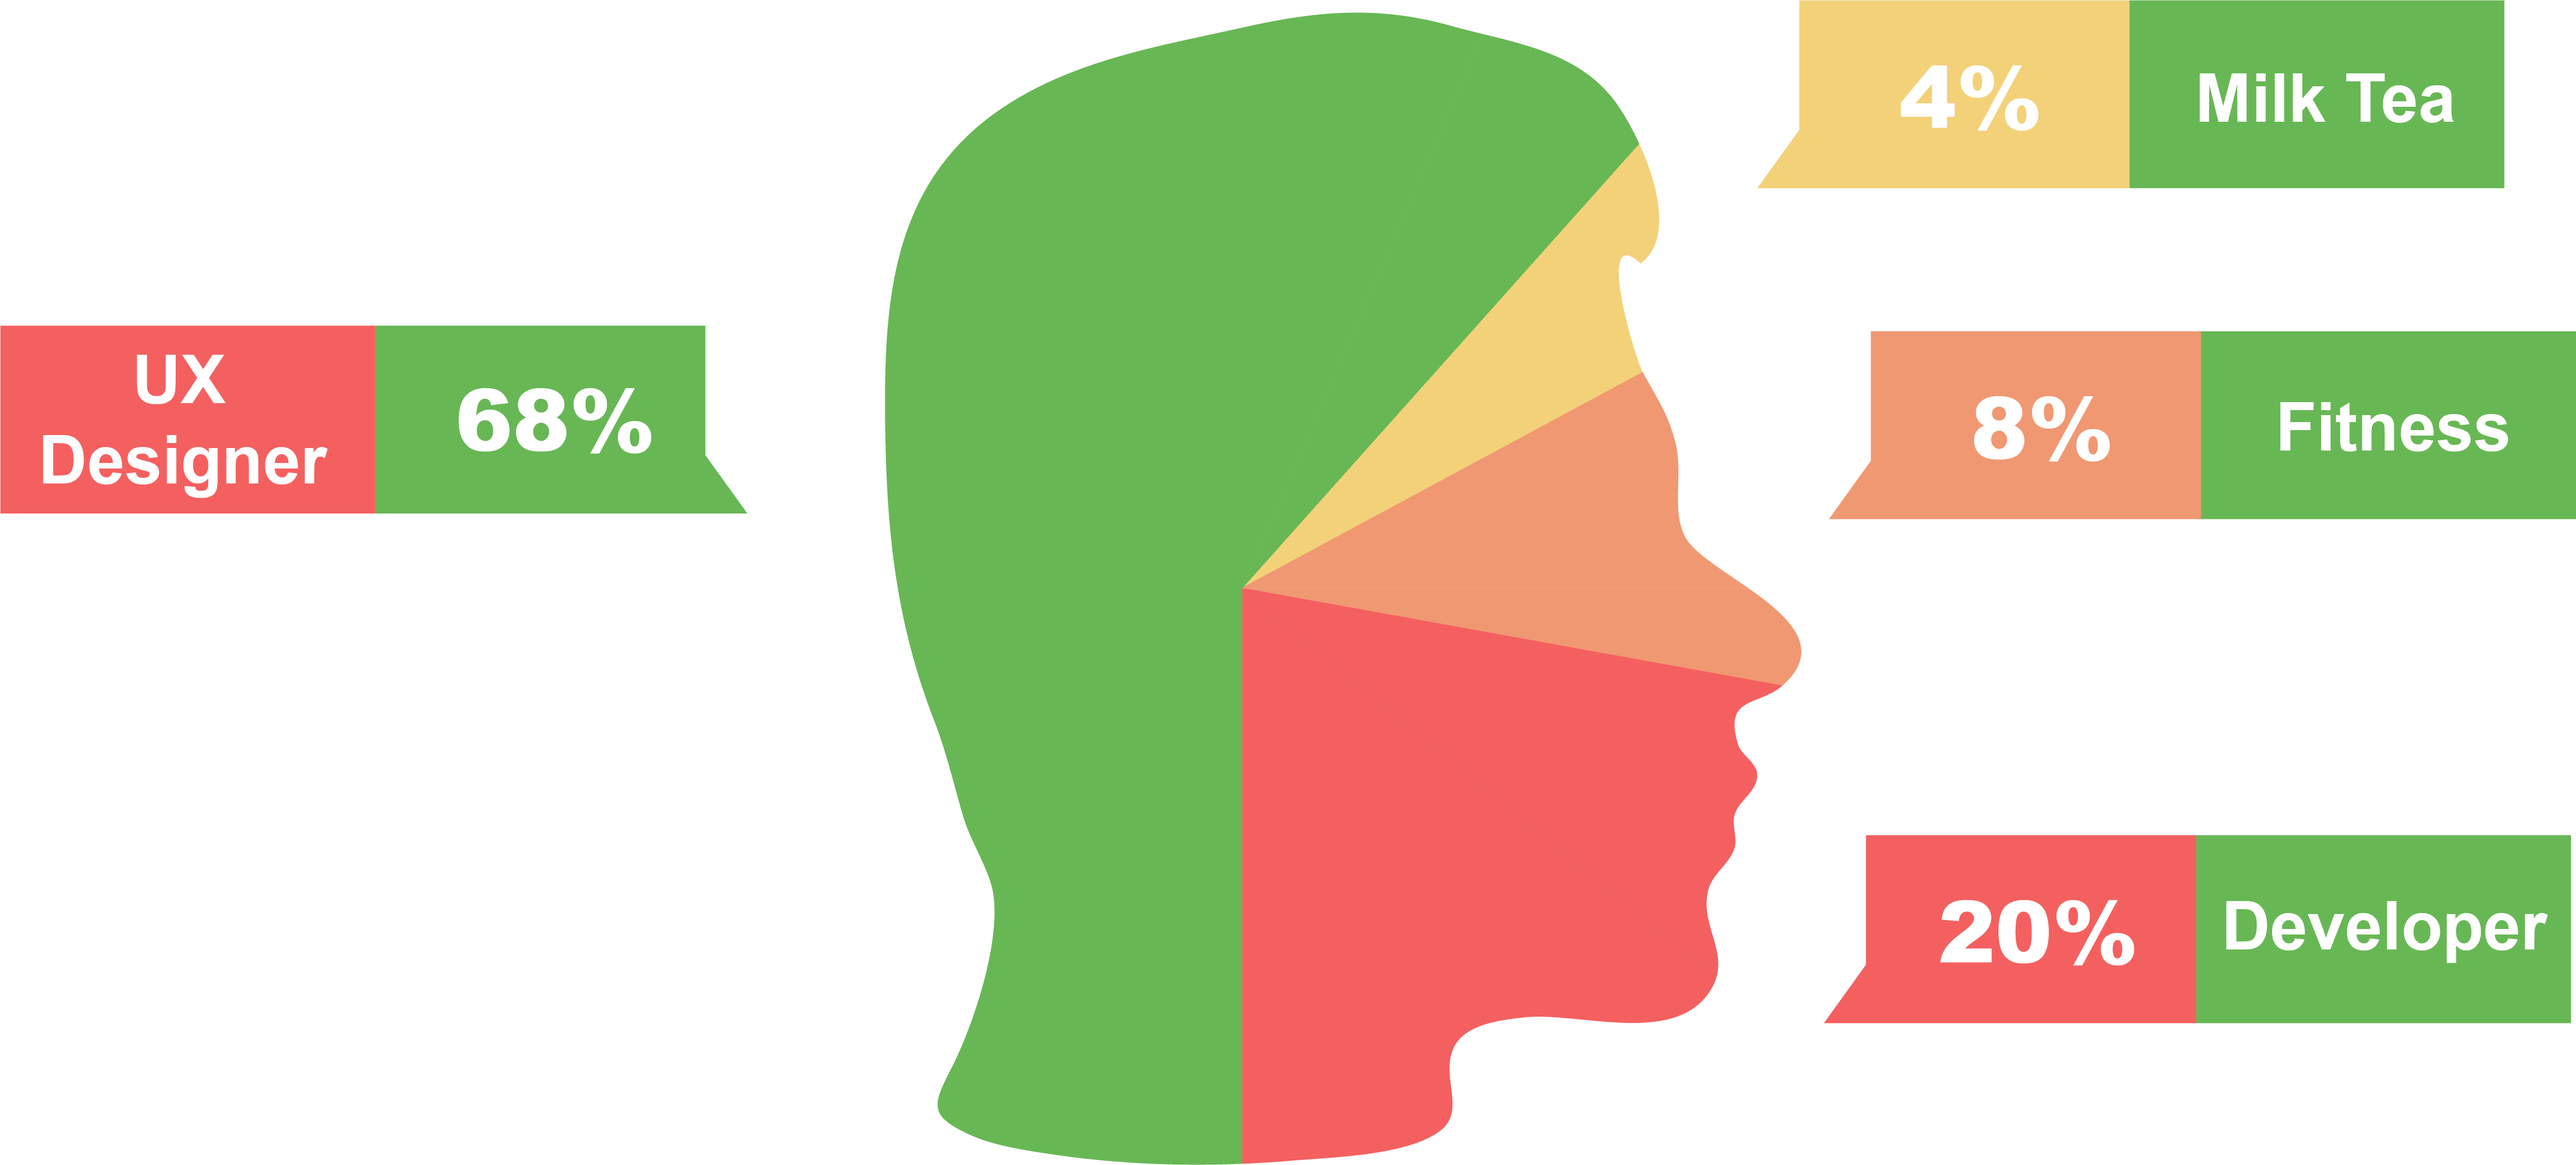
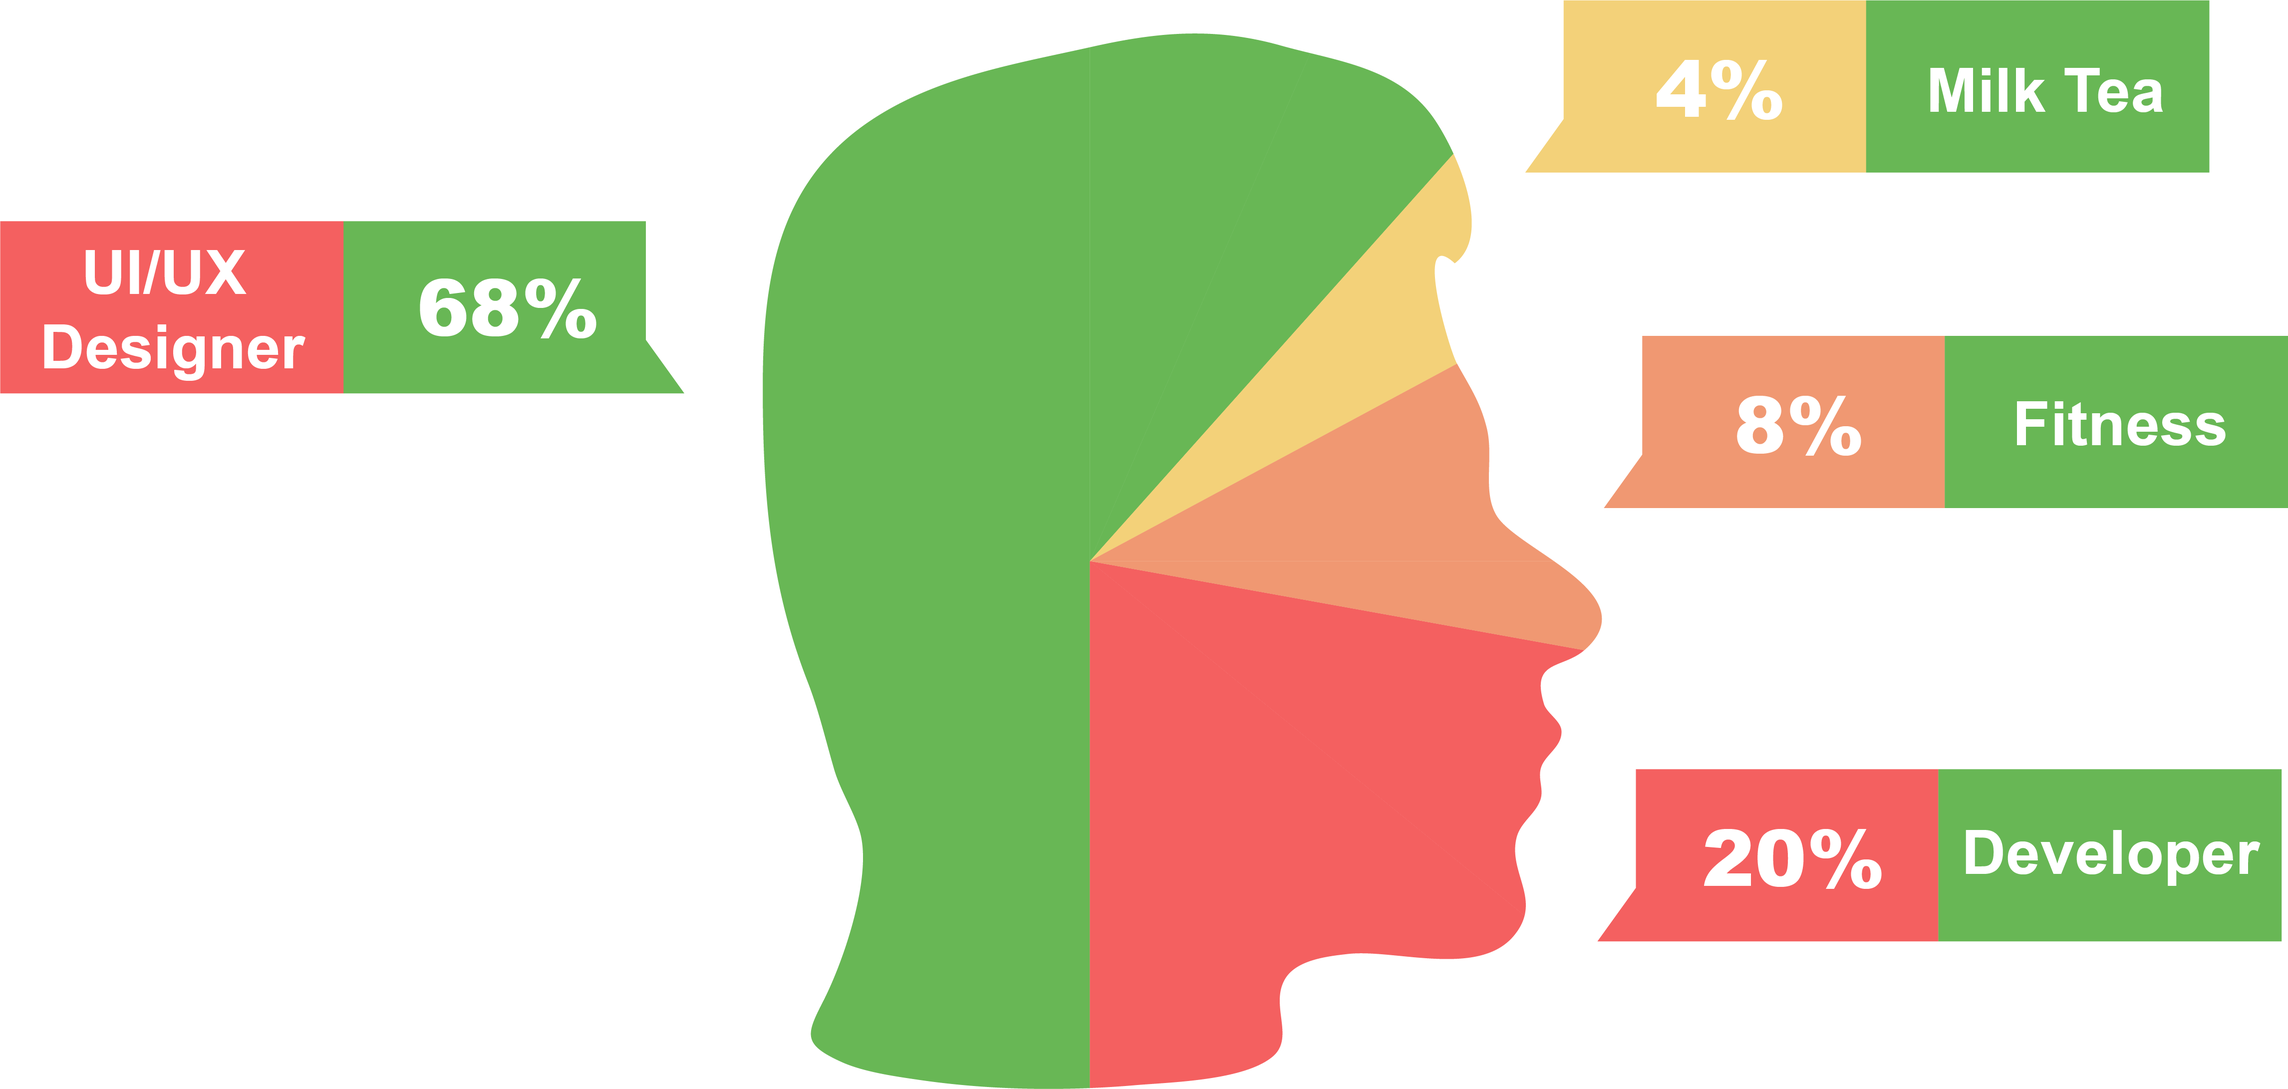
new me graph

diff --git a/index.html b/index.html
@@ -94,7 +94,7 @@
 					<h2>hi, i'm sasri</h2>
 					<br>
 					<br>
-					<p>I'm a UX Designer based in San Diego with a never-ending curiosity about the applications of design in different aspects of life. I thrive in fast-paced, collaborative environments where everyone is working towards a vision with purpose. I am currently deep diving into designing for health.</p>
+					<p>I'm a UI/UX Designer based in San Diego with a never-ending curiosity about the applications of design in different aspects of life. I thrive in fast-paced, collaborative environments where everyone is working towards a vision with purpose. I am currently deep diving into designing for health.</p>
                     <div class="arrow bounce">
                         <p><a href="#work">View some of my work<a></p>
                         <a href="#work" class="fa fa-arrow-down fa-2x"></a>
